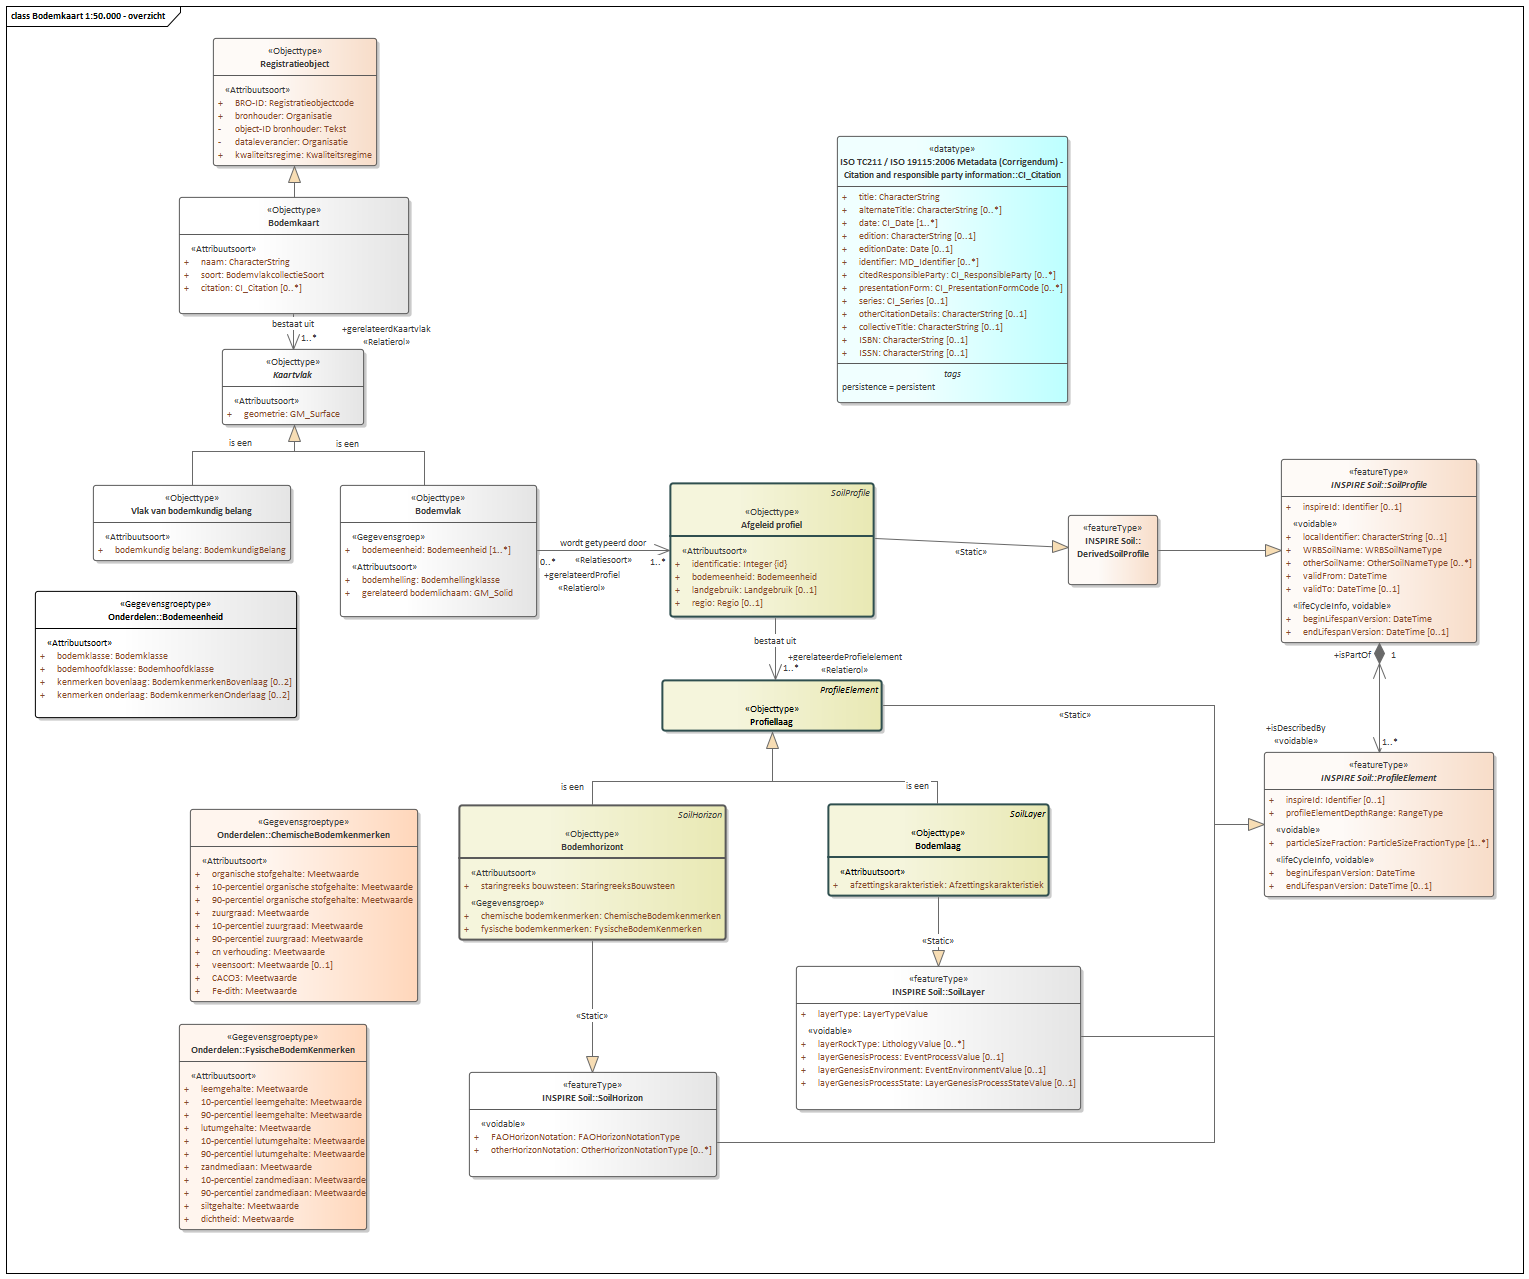
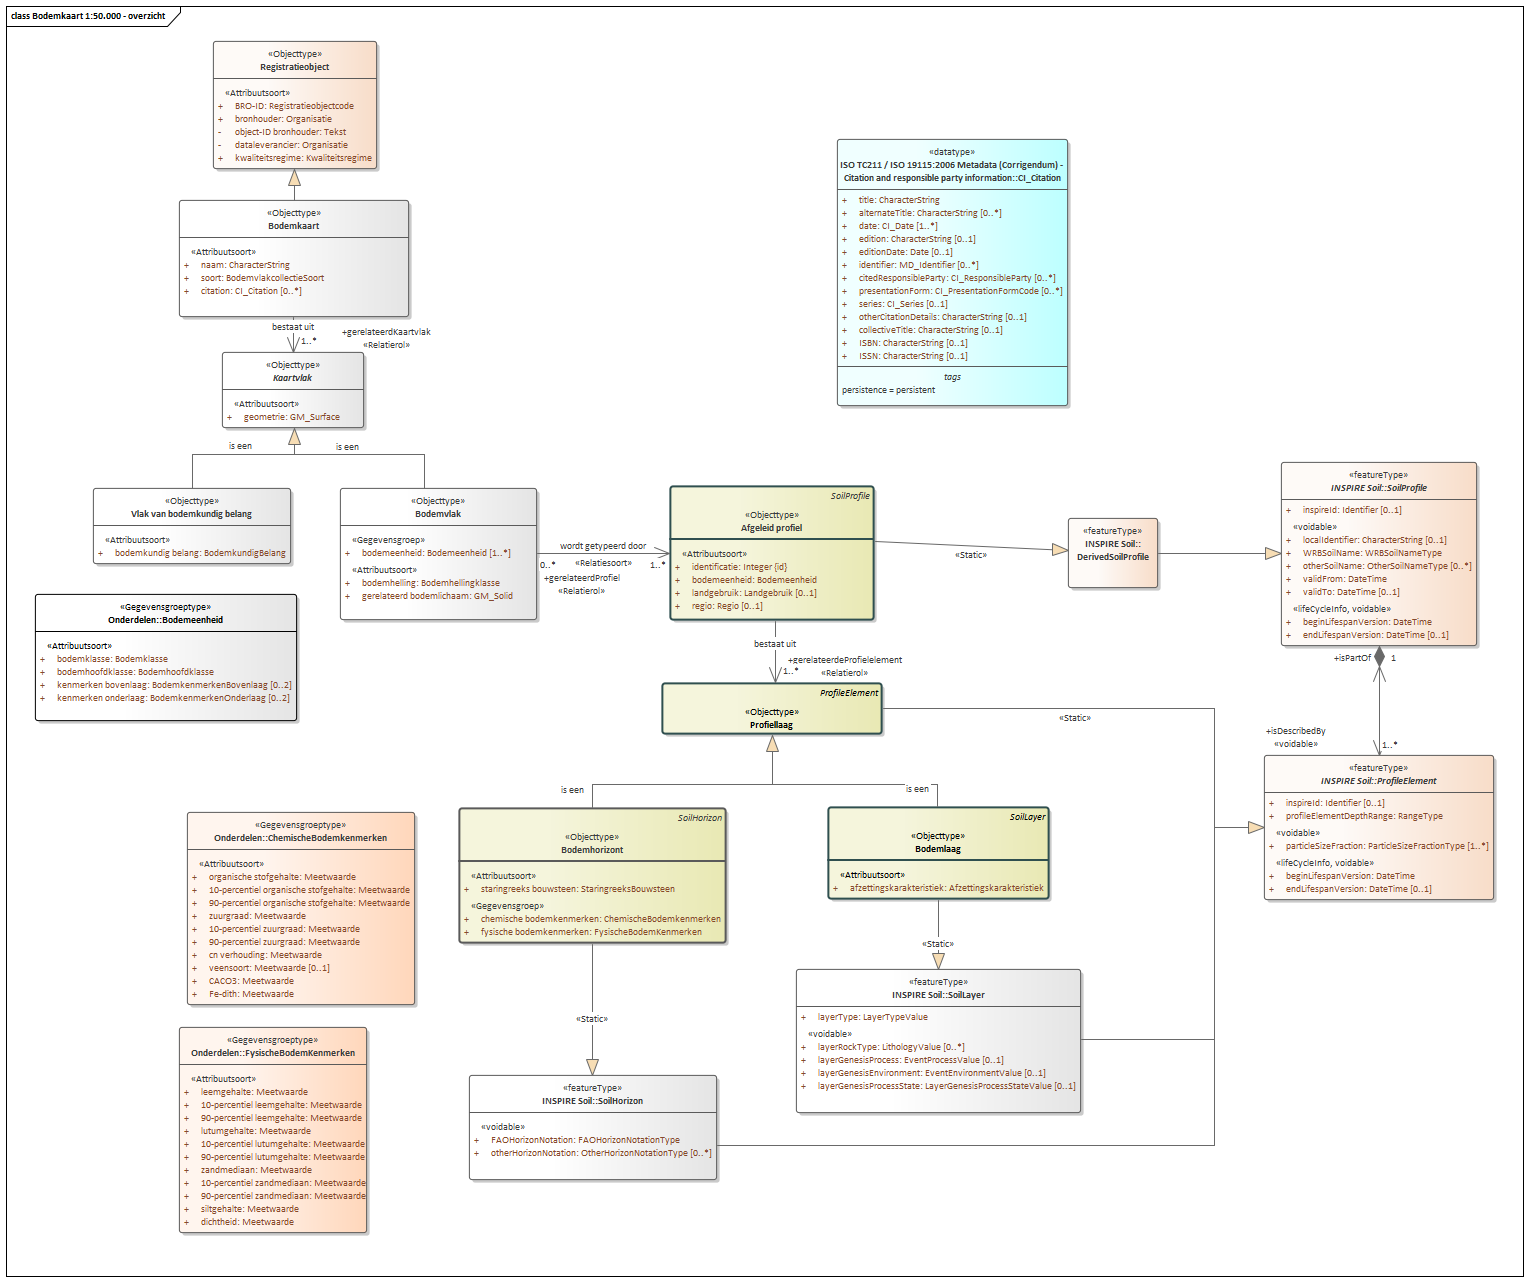
Conceptualmodel-Bodem-engrondwatertrappenkaartSGM-1.0-1-20181205-20200625-102101

diff --git a/data/SGM-cat.msword.html b/data/SGM-cat.msword.html
@@ -15,7 +15,7 @@
    <body>
       <p>Conceptual model/Bodem- en grondwatertrappenkaart (SGM)/20181205</p>
       <p>Imvertor: 1.60.1</p>
-      <p>Model release: Conceptualmodel-Bodem-engrondwatertrappenkaartSGM-1.0-1-20181205-20200625-101116</p>
+      <p>Model release: Conceptualmodel-Bodem-engrondwatertrappenkaartSGM-1.0-1-20181205-20200625-102101</p>
       <hr>
       <section>
          <h1>Artikel 1 Definitie van registratieobject, entiteiten en attributen</h1>
@@ -49,7 +49,7 @@
          <section>
             <h2>Het domeinmodel</h2>
             <section id="">
-               <div class="imageinfo overview"><img src="Images/EAID_6F1DEB4D_0857_407f_96D1_68CEB4BA18C6.png" usemap="#imagemap-EAID_6F1DEB4D_0857_407f_96D1_68CEB4BA18C6" alt="Diagram "><map name="imagemap-EAID_6F1DEB4D_0857_407f_96D1_68CEB4BA18C6"><area shape="rect" alt="Registratieobject" coords="213,38,377,166" href="#graph_EAID_93C35E9C_DB6B_4fad_AD2F_6D72CB028948"><area shape="rect" alt="FysischeBodemKenmerken" coords="179,1024,367,1230" href="#graph_EAID_7487B6E9_2821_4136_A6BD_45BCC55D08C4"><area shape="rect" alt="ChemischeBodemkenmerken" coords="190,809,418,1002" href="#graph_EAID_E7CD7773_A9F8_46e0_87D3_D98930256054"><area shape="rect" alt="Profiellaag" coords="662,680,882,731" href="#graph_EAID_9FA1F427_89ED_4c1a_ACE5_19CC4E4574CA"><area shape="rect" alt="Bodemlaag" coords="828,804,1049,896" href="#graph_EAID_D6147D13_A2CE_4eac_846C_D98CF51FC411"><area shape="rect" alt="Bodemhorizont" coords="459,805,726,940" href="#graph_EAID_51B920BD_F7BA_420b_8BC2_F95666441BBE"><area shape="rect" alt="Afgeleid profiel" coords="670,483,874,617" href="#graph_EAID_F7554868_9447_4c85_91F2_85A060A04221"><area shape="rect" alt="Bodemkaart" coords="179,197,409,314" href="#graph_EAID_5403E30C_F3F4_4c09_907F_D48BE501C19C"><area shape="rect" alt="Kaartvlak" coords="222,349,364,425" href="#graph_EAID_99801C7D_8272_47b8_8892_0FFAA25819DC"><area shape="rect" alt="Vlak van bodemkundig belang" coords="93,485,291,561" href="#graph_EAID_FFE7D8E2_A953_49c6_AB62_7366945DDAB6"><area shape="rect" alt="Bodemvlak" coords="340,485,537,617" href="#graph_EAID_1A0B021D_CECB_4888_896B_045EDB9287FB"><area shape="rect" alt="Bodemeenheid" coords="35,591,297,718" href="#graph_EAID_851EC4B0_D56E_4be9_A97B_2603C79F70A0"></map><p><b>Bodemkaart 1:50.000</b></p>
+               <div class="imageinfo overview"><img src="Images/EAID_6F1DEB4D_0857_407f_96D1_68CEB4BA18C6.png" usemap="#imagemap-EAID_6F1DEB4D_0857_407f_96D1_68CEB4BA18C6" alt="Diagram "><map name="imagemap-EAID_6F1DEB4D_0857_407f_96D1_68CEB4BA18C6"><area shape="rect" alt="Registratieobject" coords="213,41,377,169" href="#graph_EAID_93C35E9C_DB6B_4fad_AD2F_6D72CB028948"><area shape="rect" alt="FysischeBodemKenmerken" coords="179,1027,367,1233" href="#graph_EAID_7487B6E9_2821_4136_A6BD_45BCC55D08C4"><area shape="rect" alt="ChemischeBodemkenmerken" coords="187,812,415,1005" href="#graph_EAID_E7CD7773_A9F8_46e0_87D3_D98930256054"><area shape="rect" alt="Profiellaag" coords="662,683,882,734" href="#graph_EAID_9FA1F427_89ED_4c1a_ACE5_19CC4E4574CA"><area shape="rect" alt="Bodemlaag" coords="828,807,1049,899" href="#graph_EAID_D6147D13_A2CE_4eac_846C_D98CF51FC411"><area shape="rect" alt="Bodemhorizont" coords="459,808,726,943" href="#graph_EAID_51B920BD_F7BA_420b_8BC2_F95666441BBE"><area shape="rect" alt="Afgeleid profiel" coords="670,486,874,620" href="#graph_EAID_F7554868_9447_4c85_91F2_85A060A04221"><area shape="rect" alt="Bodemkaart" coords="179,200,409,317" href="#graph_EAID_5403E30C_F3F4_4c09_907F_D48BE501C19C"><area shape="rect" alt="Kaartvlak" coords="222,352,364,428" href="#graph_EAID_99801C7D_8272_47b8_8892_0FFAA25819DC"><area shape="rect" alt="Vlak van bodemkundig belang" coords="93,488,291,564" href="#graph_EAID_FFE7D8E2_A953_49c6_AB62_7366945DDAB6"><area shape="rect" alt="Bodemvlak" coords="340,488,537,620" href="#graph_EAID_1A0B021D_CECB_4888_896B_045EDB9287FB"><area shape="rect" alt="Bodemeenheid" coords="35,594,297,721" href="#graph_EAID_851EC4B0_D56E_4be9_A97B_2603C79F70A0"></map><p><b>Bodemkaart 1:50.000</b></p>
                </div>
                <div class="imageinfo overview"><img src="Images/EAID_2793BB12_5218_46ab_B17A_9F4C5C392B77.png" usemap="#imagemap-EAID_2793BB12_5218_46ab_B17A_9F4C5C392B77" alt="Diagram "><map name="imagemap-EAID_2793BB12_5218_46ab_B17A_9F4C5C392B77"><area shape="rect" alt="Regio" coords="608,305,708,407" href="#graph_EAID_71DE2E29_F39A_485e_B124_80FF3FBCA181"><area shape="rect" alt="Landgebruik" coords="458,295,558,409" href="#graph_EAID_E6891C10_4381_49af_88F6_76AB00B3EC38"><area shape="rect" alt="BodemvlakcollectieSoort" coords="281,358,381,438" href="#graph_EAID_5E3D75B5_CE9E_49f3_8210_6B864BF1D2C8"><area shape="rect" alt="StaringreeksBouwsteen" coords="155,215,255,295" href="#graph_EAID_A917BA6F_0EC3_4fc7_80D5_2F204F61DA5A"><area shape="rect" alt="BodemkundigBelang" coords="35,143,135,223" href="#graph_EAID_803E52C2_E581_448f_A721_83925F3746D1"><area shape="rect" alt="Bodemklasse" coords="755,73,855,153" href="#graph_EAID_56676ADB_C4F7_41a8_872A_B2198F6F6835"><area shape="rect" alt="BodemkenmerkenOnderlaag" coords="597,43,719,236" href="#graph_EAID_5463CF56_01BC_4f0c_88A7_11F479050C47"><area shape="rect" alt="BodemkenmerkenBovenlaag" coords="447,43,569,288" href="#graph_EAID_21FF9CA4_F85D_4d76_B3FC_6AD3B00C742C"><area shape="rect" alt="Bodemhoofdklasse" coords="309,43,469,314" href="#graph_EAID_195648A8_101B_4368_86F9_28E280667479"><area shape="rect" alt="Bodemhellingklasse" coords="155,43,325,184" href="#graph_EAID_155A6898_3C52_4f50_BEEA_5E0FCA823AEB"></map><p><b>Codelijsten</b></p>
                </div>
